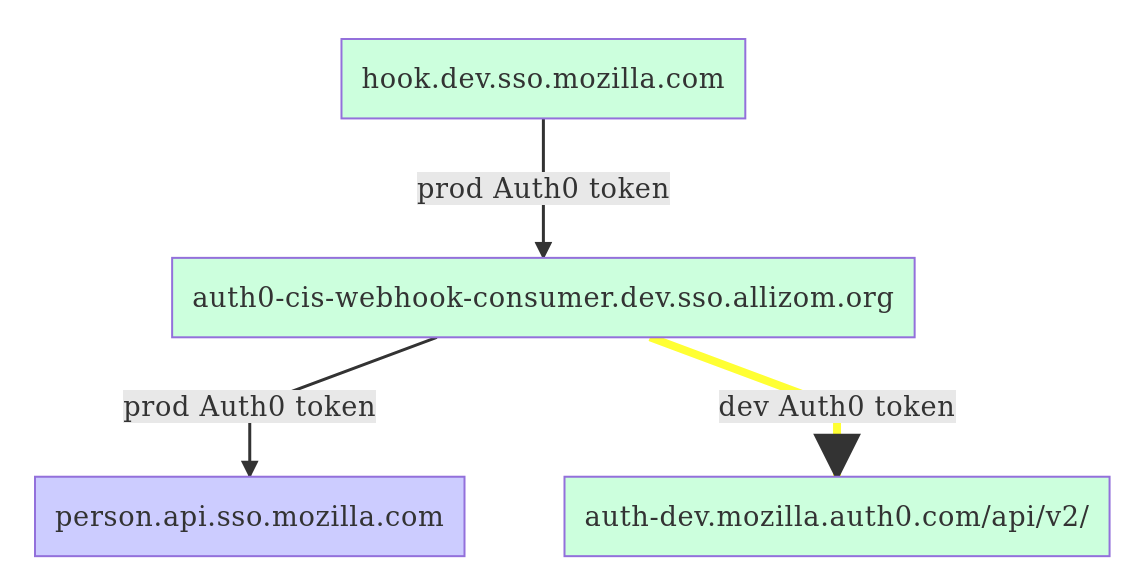
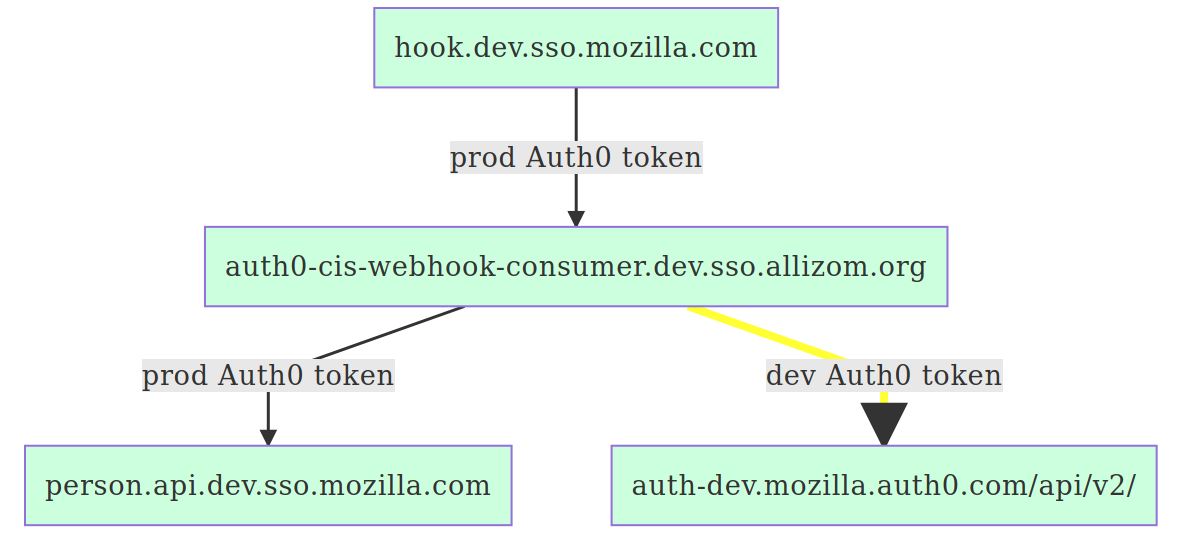
Update dev consumer to read from dev PersonAPI

Changed region(s): [[0.0, 0.0, 0.9947, 0.967]]

diff --git a/README.md b/README.md
@@ -196,12 +196,12 @@ graph TD
 ```mermaid
 graph TD
   hook.dev.sso.mozilla.com -->|prod Auth0 token| auth0-cis-webhook-consumer.dev.sso.allizom.org
-  auth0-cis-webhook-consumer.dev.sso.allizom.org-->|prod Auth0 token| person.api.sso.mozilla.com
+  auth0-cis-webhook-consumer.dev.sso.allizom.org-->|prod Auth0 token| person.api.dev.sso.mozilla.com
   auth0-cis-webhook-consumer.dev.sso.allizom.org-->|dev Auth0 token| auth-dev.mozilla.auth0.com/api/v2/
   linkStyle 2 stroke:#ff3,stroke-width:4px,color:red;
   style hook.dev.sso.mozilla.com fill:#cfd
   style auth0-cis-webhook-consumer.dev.sso.allizom.org fill:#cfd
-  style person.api.sso.mozilla.com fill:#ccf
+  style person.api.dev.sso.mozilla.com fill:#cfd
   style auth-dev.mozilla.auth0.com/api/v2/ fill:#cfd
 ```
 
